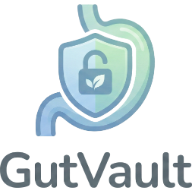
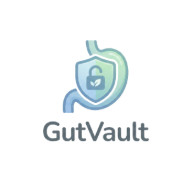
feat(pwa): enhance PWA support with install prompt and manifest updates
- Add a new PwaInstallBanner component to prompt users for PWA installation.
- Implement usePwaInstall hook to manage installation state and user interactions.
- Update site.webmanifest with additional icons, description, and theme color.
- Replace apple-touch-icon and web app manifest images for improved branding.

diff --git a/src/shared/ui/pwa-install-banner.tsx b/src/shared/ui/pwa-install-banner.tsx
@@ -1,0 +1,120 @@
+"use client";
+
+import { motion, AnimatePresence } from "motion/react";
+import { Download, X, Share, Plus } from "lucide-react";
+import { usePwaInstall } from "@/shared/hooks/use-pwa-install";
+import Image from "next/image";
+
+export function PwaInstallBanner() {
+  const { canShowPrompt, isIOS, isInstalling, promptInstall, dismiss } =
+    usePwaInstall();
+
+  if (!canShowPrompt) return null;
+
+  return (
+    <AnimatePresence>
+      <motion.div
+        initial={{ y: 100, opacity: 0 }}
+        animate={{ y: 0, opacity: 1 }}
+        exit={{ y: 100, opacity: 0 }}
+        transition={{ type: "spring", damping: 25, stiffness: 300 }}
+        className="fixed bottom-4 left-4 right-4 z-50 sm:left-auto sm:right-4 sm:max-w-sm"
+      >
+        <div className="relative overflow-hidden rounded-2xl bg-white shadow-2xl shadow-slate-900/20 ring-1 ring-slate-900/5 dark:bg-slate-800 dark:ring-white/10">
+          <div className="absolute inset-x-0 top-0 h-1 bg-linear-to-r from-emerald-500 via-teal-500 to-cyan-500" />
+
+          {/* Dismiss button */}
+          <button
+            onClick={dismiss}
+            className="absolute right-2 top-2 rounded-full p-1.5 text-slate-400 transition-colors hover:bg-slate-100 hover:text-slate-600 dark:hover:bg-slate-700 dark:hover:text-slate-300"
+            aria-label="Dismiss"
+          >
+            <X className="h-4 w-4" />
+          </button>
+
+          <div className="p-4 pt-5">
+            <div className="flex items-start gap-3">
+              {/* App icon */}
+              <div className="shrink-0">
+                <div className="flex h-12 w-12 items-center justify-center rounded-xl bg-linear-to-br from-emerald-500 to-teal-600 shadow-lg shadow-emerald-500/30">
+                  <Image
+                    src="/logo.png"
+                    alt="GutVault"
+                    width={32}
+                    height={32}
+                    className="rounded-md"
+                  />
+                </div>
+              </div>
+
+              {/* Content */}
+              <div className="flex-1 min-w-0 pr-4">
+                <h3 className="font-bold text-slate-900 dark:text-white">
+                  Install GutVault
+                </h3>
+                <p className="mt-0.5 text-sm text-slate-500 dark:text-slate-400">
+                  {isIOS
+                    ? "Add to your home screen for the best experience"
+                    : "Install for quick access & offline use"}
+                </p>
+              </div>
+            </div>
+
+            {isIOS ? (
+              // iOS instructions
+              <div className="mt-4 rounded-xl bg-slate-50 p-3 dark:bg-slate-700/50">
+                <p className="text-xs font-medium text-slate-600 dark:text-slate-300">
+                  To install:
+                </p>
+                <ol className="mt-2 space-y-2 text-xs text-slate-500 dark:text-slate-400">
+                  <li className="flex items-center gap-2">
+                    <span className="flex h-5 w-5 items-center justify-center rounded-full bg-emerald-100 text-emerald-600 dark:bg-emerald-900/50 dark:text-emerald-400">
+                      1
+                    </span>
+                    <span className="flex items-center gap-1">
+                      Tap the share button{" "}
+                      <Share className="h-3.5 w-3.5 text-blue-500" />
+                    </span>
+                  </li>
+                  <li className="flex items-center gap-2">
+                    <span className="flex h-5 w-5 items-center justify-center rounded-full bg-emerald-100 text-emerald-600 dark:bg-emerald-900/50 dark:text-emerald-400">
+                      2
+                    </span>
+                    <span className="flex items-center gap-1">
+                      Tap &quot;Add to Home Screen&quot;{" "}
+                      <Plus className="h-3.5 w-3.5" />
+                    </span>
+                  </li>
+                </ol>
+                <button
+                  onClick={dismiss}
+                  className="mt-3 w-full rounded-lg bg-slate-200 py-2 text-xs font-medium text-slate-700 transition-colors hover:bg-slate-300 dark:bg-slate-600 dark:text-slate-200 dark:hover:bg-slate-500"
+                >
+                  Got it
+                </button>
+              </div>
+            ) : (
+              // Android/Desktop install button
+              <div className="mt-4 flex gap-2">
+                <button
+                  onClick={dismiss}
+                  className="flex-1 rounded-xl bg-slate-100 px-4 py-2.5 text-sm font-medium text-slate-600 transition-colors hover:bg-slate-200 dark:bg-slate-700 dark:text-slate-300 dark:hover:bg-slate-600"
+                >
+                  Not now
+                </button>
+                <button
+                  onClick={promptInstall}
+                  disabled={isInstalling}
+                  className="flex flex-1 items-center justify-center gap-2 rounded-xl bg-linear-to-r from-emerald-500 to-teal-600 px-4 py-2.5 text-sm font-medium text-white shadow-lg shadow-emerald-500/30 transition-all hover:shadow-xl hover:shadow-emerald-500/40 disabled:opacity-70"
+                >
+                  <Download className="h-4 w-4" />
+                  {isInstalling ? "Installing..." : "Install"}
+                </button>
+              </div>
+            )}
+          </div>
+        </div>
+      </motion.div>
+    </AnimatePresence>
+  );
+}

diff --git a/src/shared/hooks/use-pwa-install.ts b/src/shared/hooks/use-pwa-install.ts
@@ -1,0 +1,124 @@
+"use client";
+
+import { useState, useEffect, useCallback } from "react";
+
+interface BeforeInstallPromptEvent extends Event {
+  readonly platforms: string[];
+  readonly userChoice: Promise<{
+    outcome: "accepted" | "dismissed";
+    platform: string;
+  }>;
+  prompt(): Promise<void>;
+}
+
+declare global {
+  interface WindowEventMap {
+    beforeinstallprompt: BeforeInstallPromptEvent;
+  }
+}
+
+const DISMISSED_KEY = "pwa-install-dismissed";
+const DISMISSED_DURATION = 7 * 24 * 60 * 60 * 1000; // 7 days
+
+export function usePwaInstall() {
+  const [installPrompt, setInstallPrompt] =
+    useState<BeforeInstallPromptEvent | null>(null);
+  const [isInstalled, setIsInstalled] = useState(false);
+  const [isIOS, setIsIOS] = useState(false);
+  const [isDismissed, setIsDismissed] = useState(true); // Start as true to prevent flash
+  const [isInstalling, setIsInstalling] = useState(false);
+
+  // Check if already installed or dismissed
+  useEffect(() => {
+    // Check if running as standalone PWA
+    const isStandalone =
+      window.matchMedia("(display-mode: standalone)").matches ||
+      (navigator as Navigator & { standalone?: boolean }).standalone === true;
+
+    setIsInstalled(isStandalone);
+
+    // Check iOS
+    const isIOSDevice =
+      /iPad|iPhone|iPod/.test(navigator.userAgent) &&
+      !(window as Window & { MSStream?: unknown }).MSStream;
+    setIsIOS(isIOSDevice);
+
+    // Check if dismissed recently
+    const dismissedAt = localStorage.getItem(DISMISSED_KEY);
+    if (dismissedAt) {
+      const dismissedTime = parseInt(dismissedAt, 10);
+      if (Date.now() - dismissedTime < DISMISSED_DURATION) {
+        setIsDismissed(true);
+        return;
+      } else {
+        localStorage.removeItem(DISMISSED_KEY);
+      }
+    }
+    setIsDismissed(false);
+  }, []);
+
+  // Listen for beforeinstallprompt event
+  useEffect(() => {
+    const handler = (e: BeforeInstallPromptEvent) => {
+      // Prevent Chrome's mini-infobar
+      e.preventDefault();
+      // Store the event for later use
+      setInstallPrompt(e);
+    };
+
+    window.addEventListener("beforeinstallprompt", handler);
+
+    // Listen for app installed event
+    const installedHandler = () => {
+      setIsInstalled(true);
+      setInstallPrompt(null);
+    };
+
+    window.addEventListener("appinstalled", installedHandler);
+
+    return () => {
+      window.removeEventListener("beforeinstallprompt", handler);
+      window.removeEventListener("appinstalled", installedHandler);
+    };
+  }, []);
+
+  const promptInstall = useCallback(async () => {
+    if (!installPrompt) return false;
+
+    setIsInstalling(true);
+
+    try {
+      await installPrompt.prompt();
+      const { outcome } = await installPrompt.userChoice;
+
+      if (outcome === "accepted") {
+        setIsInstalled(true);
+        setInstallPrompt(null);
+        return true;
+      }
+    } catch (error) {
+      console.error("Error prompting install:", error);
+    } finally {
+      setIsInstalling(false);
+    }
+
+    return false;
+  }, [installPrompt]);
+
+  const dismiss = useCallback(() => {
+    localStorage.setItem(DISMISSED_KEY, Date.now().toString());
+    setIsDismissed(true);
+  }, []);
+
+  const canShowPrompt =
+    !isInstalled && !isDismissed && (!!installPrompt || isIOS);
+
+  return {
+    canShowPrompt,
+    isInstalled,
+    isIOS,
+    isInstalling,
+    promptInstall,
+    dismiss,
+  };
+}

diff --git a/src/shared/providers/index.tsx b/src/shared/providers/index.tsx
@@ -6,6 +6,7 @@ import { useEffect } from "react";
 import { useReminders } from "@/features/settings/hooks/use-reminders";
 import { LockProvider } from "./lock-provider";
 import { FlareProvider } from "@/features/flare";
+import { PwaInstallBanner } from "@/shared/ui/pwa-install-banner";
 
 export function AppProviders({ children }: { children: React.ReactNode }) {
   useReminders();
@@ -29,6 +30,7 @@ export function AppProviders({ children }: { children: React.ReactNode }) {
         <FlareProvider>{children}</FlareProvider>
       </LockProvider>
       <Toaster richColors position="top-center" />
+      <PwaInstallBanner />
     </ThemeProvider>
   );
 }

diff --git a/src/shared/hooks/index.ts b/src/shared/hooks/index.ts
@@ -1,0 +1,2 @@
+export { usePwaInstall } from "./use-pwa-install";
+
